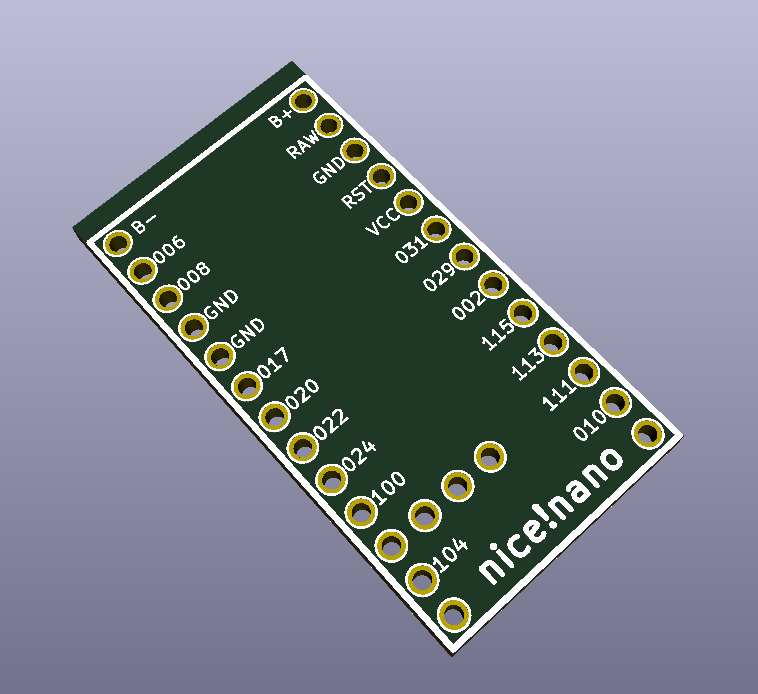
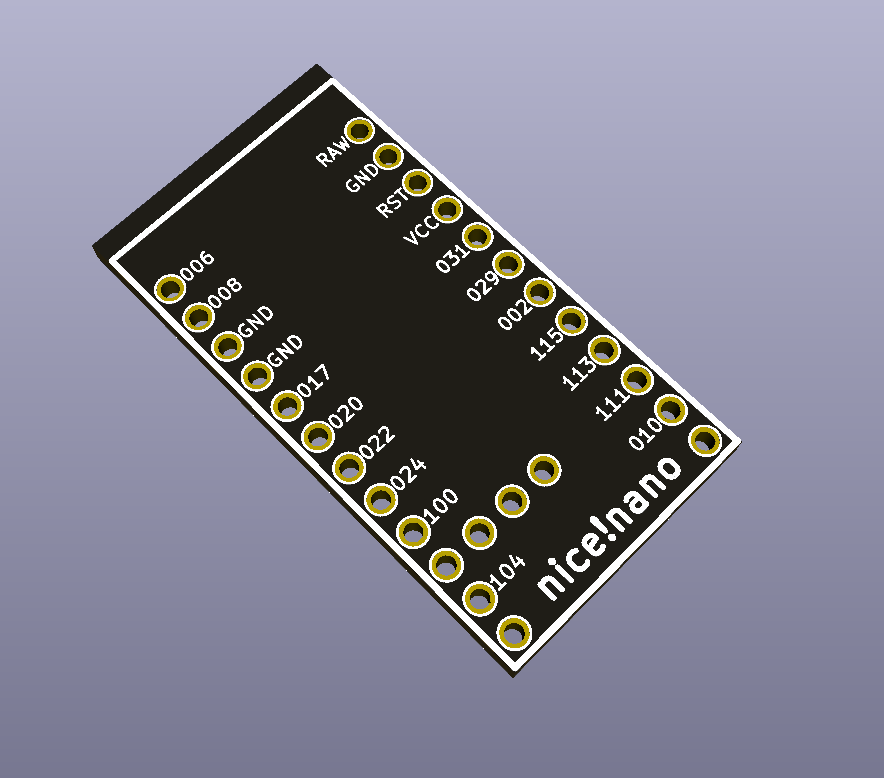
Remove B+ and B- pins

diff --git a/README.md b/README.md
@@ -1,17 +1,19 @@
+![Footprint](pic.PNG)
+
 Unofficial symbol and footprint for the nice!nano
 
-https://nicekeyboards.com/
+https://nicekeyboards.com/nice-nano
 
 
 The nice!nano is compatible with the elite-C (see https://deskthority.net/wiki/Elite-C for pinout), and the pro micro. The side pins will be on the same positions.
 
 If you want pro-micro compatibility:
 
-* Add pins B+ and B- for battery charging, don't use pins 101, 102, 107
+* Use pins RAW (positive) and GND (negative) for battery charging, don't use pins 101, 102, 107
 
 
 If you want elite-C compatibility:
 
 * Pins 101, 102, 107 should be connected to pins B7, D5, C7, F1, F0 (choose which ones).
-* Pins B+ and B- should be added for battery charging
+* Pins RAW (positive) and GND (negative) should be used for battery charging
 
